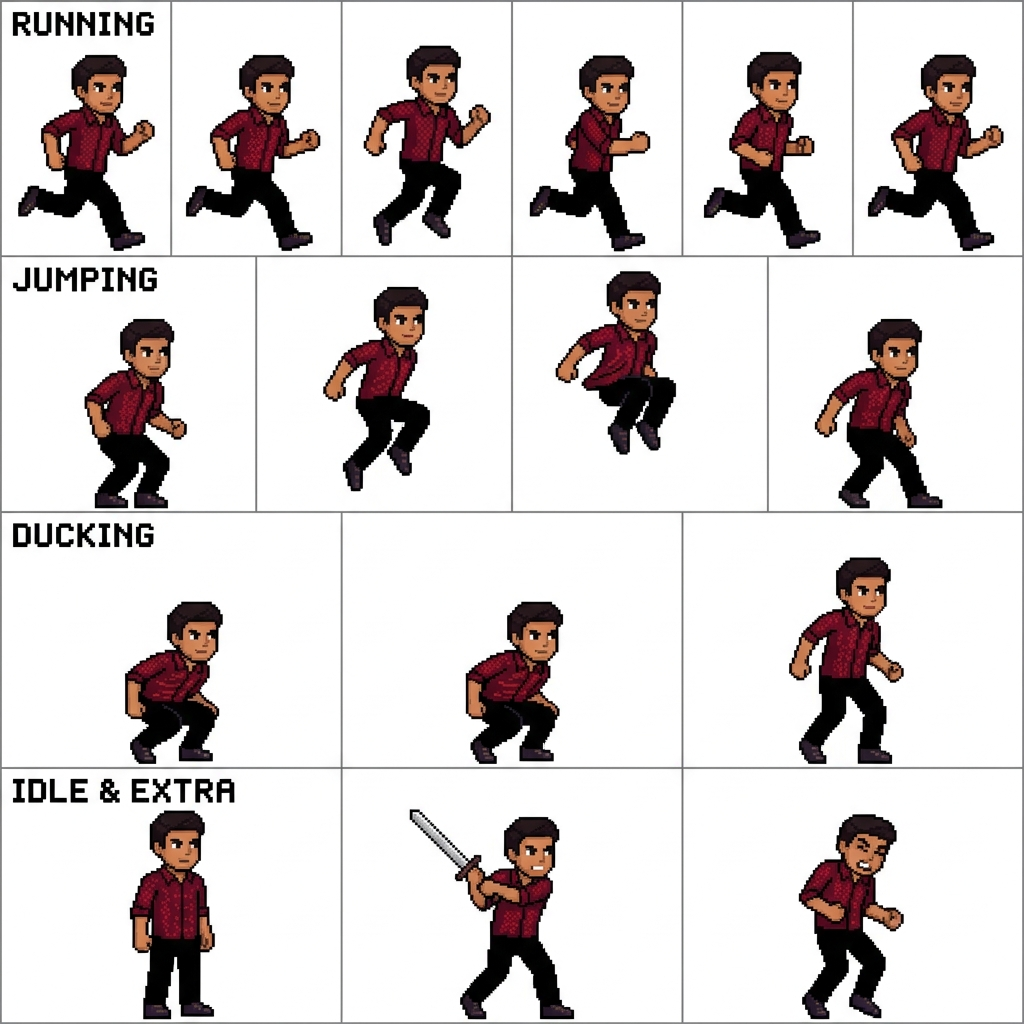
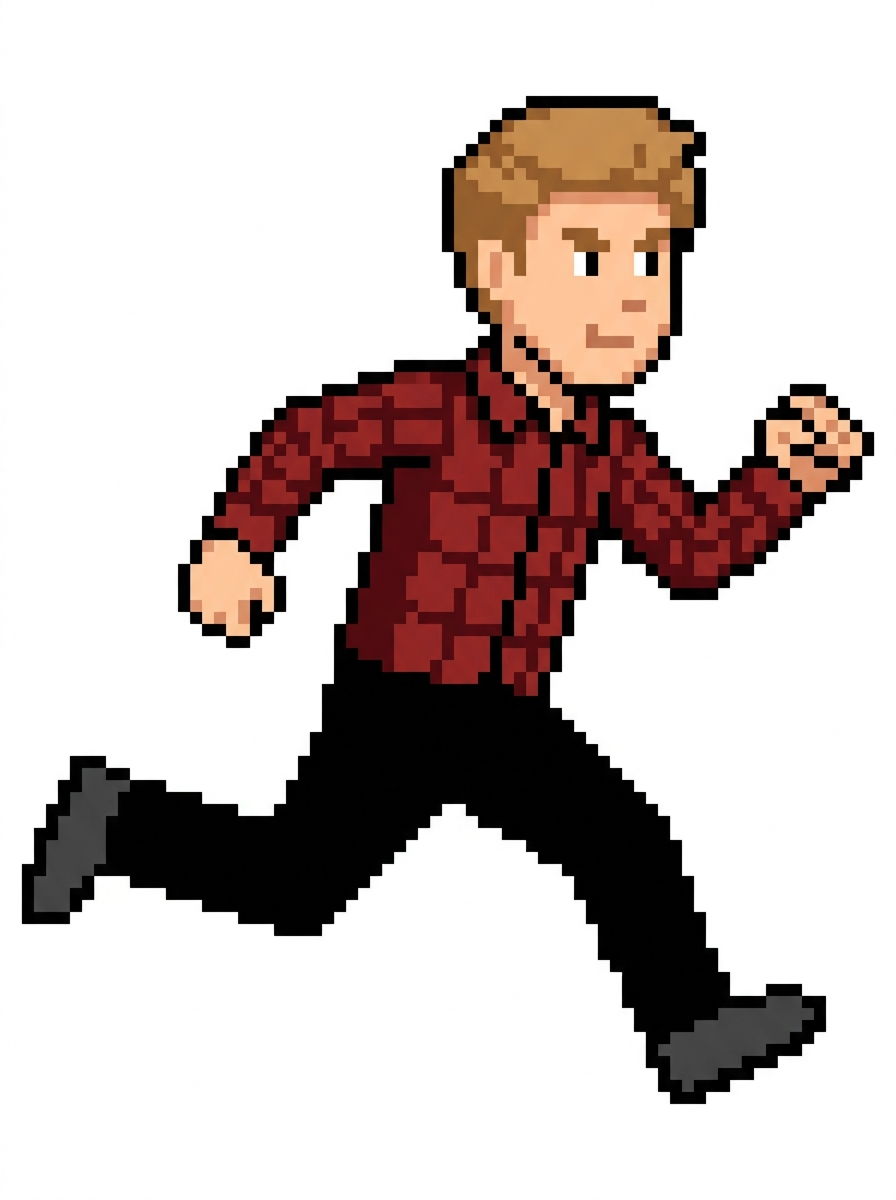
Fix: clean single-pose hero sprites with light skin, full-image rendering, arrow key character cycling

diff --git a/game.js b/game.js
@@ -1173,34 +1173,30 @@ const player = {
         if (selectedSkin === 'crimson') activeChar = char3;
 
         if (activeChar && activeChar.loaded && activeChar.canvas) {
-            // Calculate dynamic slice size based on grid (6 columns)
-            const sliceW = activeChar.img.width / 6;
-            const sliceH = activeChar.img.height / activeChar.rows;
-            
-            let sliceX = 0;
-            let sliceY = 0;
-            
-            if (this.isJumping) {
-                sliceX = 0;
-                sliceY = sliceH; // Row 2 for jump
-            } else if (this.isSliding) {
-                sliceX = 0;
-                sliceY = sliceH * 2; // Row 3 for duck/slide
-            } else if (gameState === 'GAMEOVER') {
-                sliceX = sliceW * 2; // Arbitrary hurt frame
-                sliceY = sliceH;
-            } else {
-                sliceX = (this.animFrame % 4) * sliceW; // Row 1 (first 4 frames)
-                sliceY = 0;
+            // Draw the full single-pose character sprite
+            let scaleW = 60;
+            let scaleH = 80;
+            let renderY = this.y;
+
+            if (this.isSliding) {
+                // Squash for sliding/ducking
+                scaleW = 70;
+                scaleH = 45;
+                renderY = this.y + 35;
+            } else if (this.isJumping) {
+                // Slight stretch for jumping
+                scaleW = 55;
+                scaleH = 85;
             }
 
-            const scaleW = this.isSliding ? 75 : 60;
-            const scaleH = this.isSliding ? 50 : 80;
-            const renderY = this.isSliding ? this.y + 30 : this.y;
+            // Subtle running bob animation (2px vertical bounce)
+            if (!this.isJumping && !this.isSliding && gameState !== 'GAMEOVER') {
+                renderY += Math.sin(this.animFrame * 1.5) * 2;
+            }
 
             ctx.drawImage(
                 activeChar.canvas,
-                sliceX, sliceY, sliceW, sliceH,
+                0, 0, activeChar.img.width, activeChar.img.height,
                 this.x, renderY, scaleW, scaleH
             );
         } else {
@@ -2587,6 +2583,18 @@ function gameLoop() {
 }
 
 // --- Keyboard & Key State Handlers ---
+const SKIN_ORDER = ['plaid', 'varsity', 'crimson'];
+
+function cycleSkin(direction) {
+    const currentIndex = SKIN_ORDER.indexOf(selectedSkin);
+    let newIndex = currentIndex + direction;
+    if (newIndex < 0) newIndex = SKIN_ORDER.length - 1;
+    if (newIndex >= SKIN_ORDER.length) newIndex = 0;
+    selectedSkin = SKIN_ORDER[newIndex];
+    localStorage.setItem('btech-skin', selectedSkin);
+    updateSkinUI();
+}
+
 window.addEventListener('keydown', (e) => {
     if (e.repeat) return;
 
@@ -2620,6 +2628,20 @@ window.addEventListener('keydown', (e) => {
         e.preventDefault();
         if (gameState === 'PLAYING') {
             player.slide();
+        }
+    }
+
+    // Arrow Left/Right to cycle characters on menu screen
+    if (e.code === 'ArrowLeft') {
+        e.preventDefault();
+        if (gameState === 'MENU') {
+            cycleSkin(-1);
+        }
+    }
+    if (e.code === 'ArrowRight') {
+        e.preventDefault();
+        if (gameState === 'MENU') {
+            cycleSkin(1);
         }
     }
 